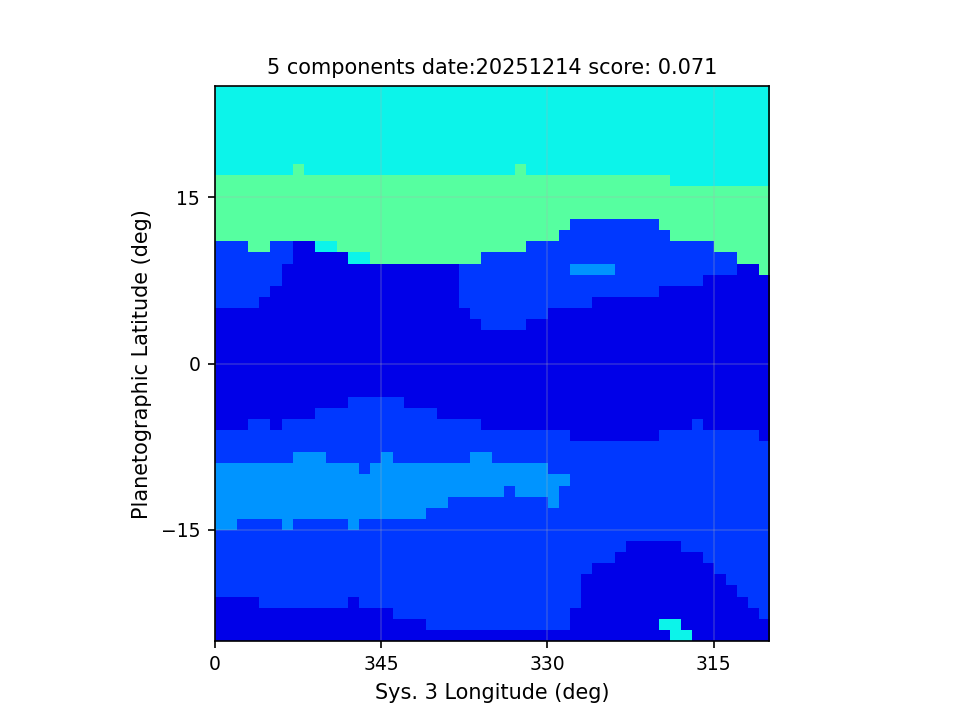
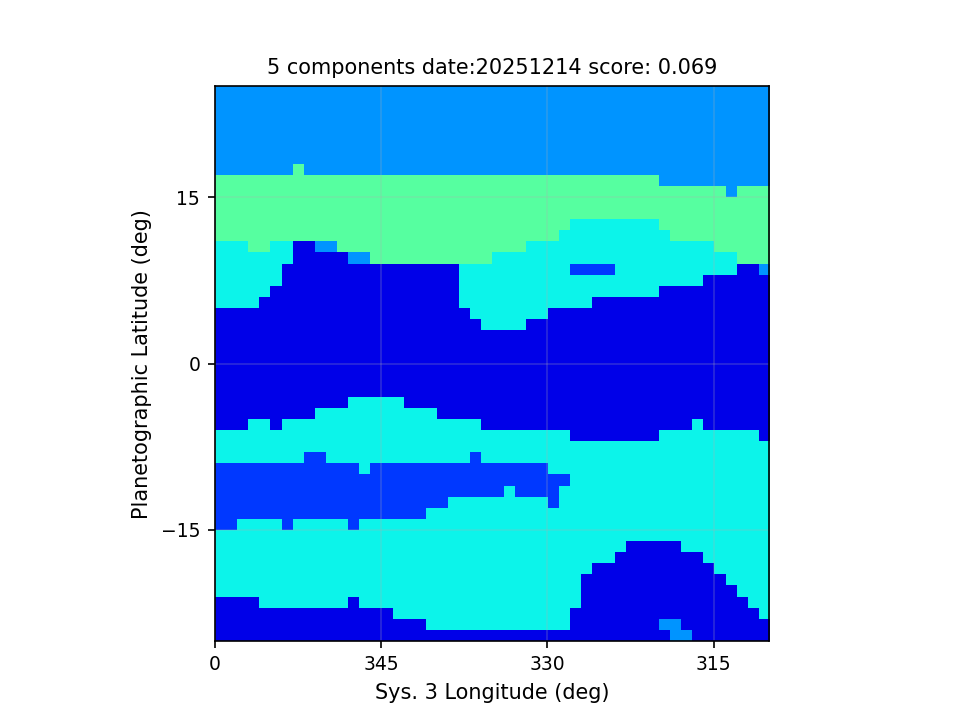
chore: refactor plotting and mapping routines to run together or separately

diff --git a/scripts/processes.py b/scripts/processes.py
@@ -1,0 +1,40 @@
+from astropy.io import fits
+import numpy as np
+import pylab as pl
+import scripts.preprocessing.preprocessing as pre
+import scripts.plots.plots as PL
+import scripts.clustering.clusters as CL 
+from sklearn.metrics import silhouette_score
+from config.config import config
+import scripts.plots.mapping as MP
+
+
+def output_cluster_map_and_plot(date, keywords, param_ranges, n_comp = 5, cov_type = "full", 
+                           latRng = [65, 115], lngRng = [0, 50], cm_num = 3):
+    [input_arr, subset_shape] = pre.get_input_array(keywords, param_ranges, latRng, lngRng, cm_num)
+    pred = CL.create_clusters(input_arr[:, [0,1]], cov_type, n_comp)
+    sil_score = str(round(silhouette_score(input_arr, pred), 3))
+    MP.create_cluster_map(date, n_comp, pred, input_arr, subset_shape, sil_score, latRng, lngRng)
+    PL.create_cluster_plot(date, keywords, input_arr, pred, sil_score, n_comp, cov_type, latRng, lngRng, cm_num)
+
+
+def output_cluster_map(date, keywords, param_ranges, n_comp = 5, cov_type = "full", 
+                           latRng = [65, 115], lngRng = [0, 50], cm_num = 3):
+    [input_arr, subset_shape] = pre.get_input_array(keywords, param_ranges, latRng, lngRng, cm_num)
+    pred = CL.create_clusters(input_arr[:, [0,1]], cov_type, n_comp)
+    sil_score = str(round(silhouette_score(input_arr, pred), 3))
+    MP.create_cluster_map(date, n_comp, pred, input_arr, subset_shape, sil_score, latRng, lngRng)
+
+
+def output_cluster_plot(date, keywords, param_ranges, n_comp = 5, cov_type = "full", 
+                           latRng = [65, 115], lngRng = [0, 50], cm_num = 3):
+    [input_arr, subset_shape] = pre.get_input_array(keywords, param_ranges, latRng, lngRng, cm_num)
+    pred = CL.create_clusters(input_arr[:, [0,1]], cov_type, n_comp)
+    sil_score = str(round(silhouette_score(input_arr, pred), 3))
+    PL.create_cluster_plot(date, keywords, input_arr, pred, sil_score, n_comp, cov_type, latRng, lngRng, cm_num)
+
+
+#output_cluster_map_and_plot("20251214", ["NH3", "PCld"], [[0, 300], [1000, 3000]], 5)
+output_cluster_map("20251214", ["NH3", "PCld"], [[0, 300], [1000, 3000]], 5)
+output_cluster_plot("20251214", ["NH3", "PCld"], [[0, 300], [1000, 3000]], 5)
+    

diff --git a/scripts/plots/mapping.py b/scripts/plots/mapping.py
@@ -2,6 +2,7 @@ from astropy.io import fits
 import numpy as np
 import pylab as pl
 import scripts.preprocessing.preprocessing as pre
+import scripts.plots.plots as plots
 import scripts.clustering.clusters as CL 
 from sklearn.metrics import silhouette_score
 from config.config import config
@@ -38,12 +39,9 @@ def plot_patch(patch, LatLims, LonLims, axis, colorscale, vn = -1, vx = 10, n = 
     im_ratio = patch.shape[0]/patch.shape[1]
 
     
-def create_cluster_map(date, keywords, param_ranges, n_comp = 5, cov_type = "full", 
-                           latRng = [65, 115], lngRng = [0, 50], cm_num = 3):
-    [input_arr, subset_shape] = pre.get_input_array(keywords, param_ranges, latRng, lngRng, cm_num)
-    pred = CL.create_clusters(input_arr[:, [0,1]], cov_type, n_comp)
-    #print("silhouette score: " + str(silhouette_score(input_arr, pred)))
-    sil_score = str(round(silhouette_score(input_arr, pred), 3))
+def create_cluster_map(date, n_comp, pred, input_arr, subset_shape, sil_score,
+                           latRng, lngRng, cm_num = 3):
+   
     cluster_map = create_cluster_arr(input_arr, subset_shape, pred)
     LTitle = f'{n_comp} components date:{date} score: {sil_score}'
     axis = create_axis([latRng[0] - 90, 90 - latRng[1]], lngRng, LTitle, cm_num)
@@ -66,8 +64,4 @@ def create_cluster_arr(input_arr, subset_shape, pred):
     mapped_clusters = oned_mapped_clusters.reshape(subset_shape)
     return mapped_clusters
 
-#create_cluster_map(["NH3", "PCld"], [[30, 250], [1000, 2500]])
-create_cluster_map("20251214", ["NH3", "PCld"], [[0, 300], [1000, 3000]], 5)
-create_cluster_map("20251214", ["NH3", "PCld"], [[0, 300], [1000, 3000]], 4)
 
-#create_cluster_map_arr( ["NH3", "PCld", "AOI", "CI"], [[60, 250], [1400, 2500], [0.1, 0.4], [0.35, 0.75]])

diff --git a/scripts/plots/plots.py b/scripts/plots/plots.py
@@ -6,13 +6,11 @@ import scripts.clustering.clusters as CL
 import numpy as np
 
 
-def create_cluster_plot(date, keywords, param_ranges, n_comp = 5, cov_type = "full", 
+def create_cluster_plot(date, keywords, input_arr, pred, sil_score, n_comp = 5, cov_type = "full", 
                         latRng = [65, 105], lngRng = [0, 50], cm_num = 3
                         ):
  
-    input_arr = pre.get_input_array(keywords, param_ranges, latRng, lngRng, cm_num)[0]
-    pred = CL.create_clusters(input_arr[:, [0,1]], cov_type, n_comp)
-    sil_score = str(round(silhouette_score(input_arr, pred), 3))
+ 
     #print("silhouette score: " + str(silhouette_score(input_arr, pred)))
     fig, ax = plt.subplots()
     ax.yaxis.set_inverted(True)
@@ -25,5 +23,3 @@ def create_cluster_plot(date, keywords, param_ranges, n_comp = 5, cov_type = "fu
     plt.savefig(f'{config["output"]}/cluster_plots/clusters_{date}_{lat_lon_str}_{cov_type}_{n_comp}_.png')
     return 0
 
-create_cluster_plot("20251214", ["NH3", "PCld"], [[0, 300], [1000, 3000]], 5)
-create_cluster_plot("20251214", ["NH3", "PCld"], [[0, 300], [1000, 3000]], 4)

diff --git a/scripts/clustering/clusters.py b/scripts/clustering/clusters.py
@@ -17,7 +17,6 @@ def create_clusters(pix_arr, cov_type, n_components):
     print("fitting model...")
     gmm_model.fit(pix_arr)
     predictions = gmm_model.predict(pix_arr)
-
     return predictions
 
 
